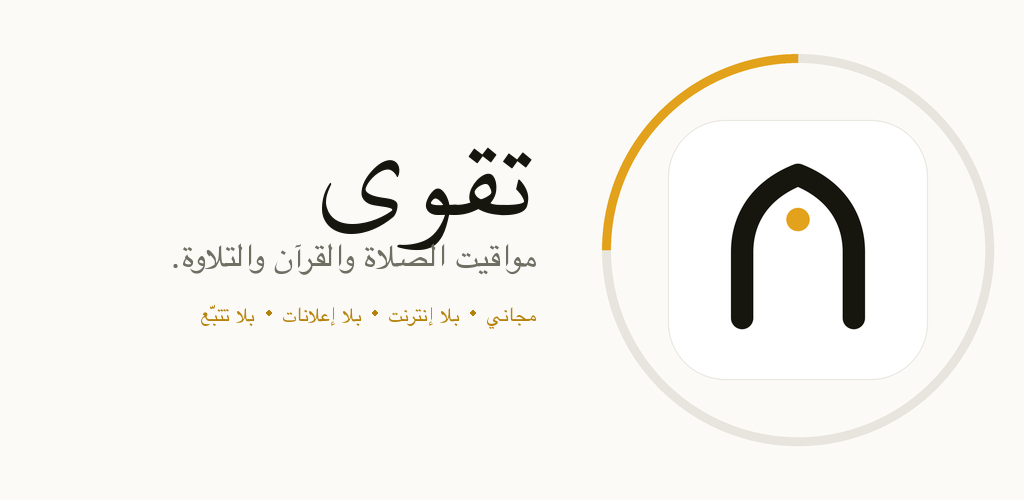
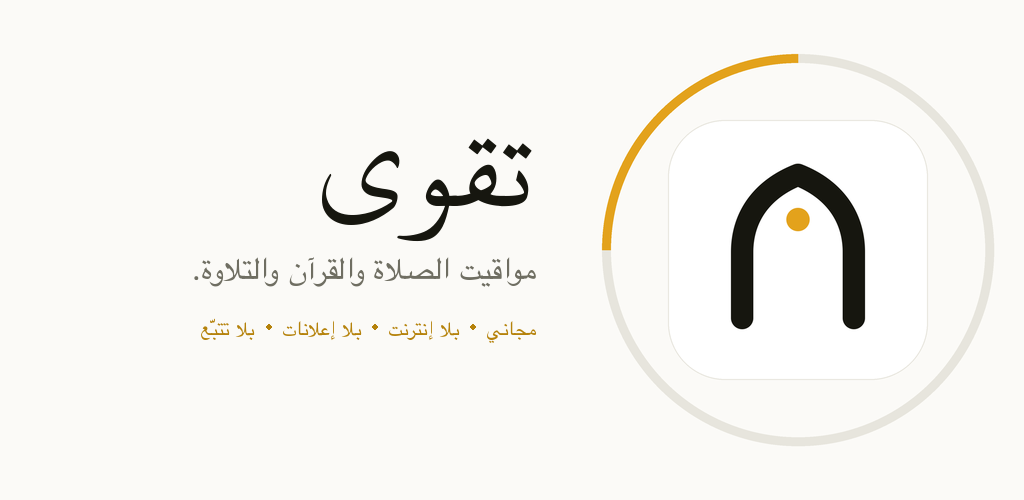
store: more air between the feature graphic's heading and its subheading

Changed region(s): [[0.1562, 0.27, 0.5312, 0.57], [0.2812, 0.6, 0.5312, 0.69], [0.1875, 0.63, 0.25, 0.69]]

diff --git a/tools/feature-graphic.py b/tools/feature-graphic.py
@@ -87,14 +87,14 @@ def render(lang):
     d = ImageDraw.Draw(out)
     if rtl:
         x = W - 488
-        d.text((x, 215), "تقوى", font=ImageFont.truetype(UTHMANIC, 132), fill=INK, anchor="rs", direction="rtl")
-        d.text((x, 268), "مواقيت الصلاة والقرآن والتلاوة.", font=ImageFont.truetype(ARABIC_UI, 34), fill=SECONDARY, anchor="rs", direction="rtl")
-        dotted_rtl(d, x, 322, ["مجاني", "بلا إنترنت", "بلا إعلانات", "بلا تتبّع"], ImageFont.truetype(ARABIC_UI, 21), AMBER)
+        d.text((x, 206), "تقوى", font=ImageFont.truetype(UTHMANIC, 132), fill=INK, anchor="rs", direction="rtl")
+        d.text((x, 280), "مواقيت الصلاة والقرآن والتلاوة.", font=ImageFont.truetype(ARABIC_UI, 32), fill=SECONDARY, anchor="rs", direction="rtl")
+        dotted_rtl(d, x, 336, ["مجاني", "بلا إنترنت", "بلا إعلانات", "بلا تتبّع"], ImageFont.truetype(ARABIC_UI, 21), AMBER)
     else:
         x = 488
-        d.text((x - 6, 205), "Taqwa", font=ImageFont.truetype(MANROPE_XB, 124), fill=INK, anchor="ls")
-        d.text((x, 262), "Prayer times, Quran and recitation.", font=ImageFont.truetype(MANROPE_R, 34), fill=SECONDARY, anchor="ls")
-        spaced(d, (x + 1, 322), "FREE · OFFLINE · NO ADS · NO TRACKING", ImageFont.truetype(MANROPE_SB, 20), AMBER, 3)
+        d.text((x - 6, 196), "Taqwa", font=ImageFont.truetype(MANROPE_XB, 124), fill=INK, anchor="ls")
+        d.text((x, 274), "Prayer times, Quran and recitation.", font=ImageFont.truetype(MANROPE_R, 32), fill=SECONDARY, anchor="ls")
+        spaced(d, (x + 1, 334), "FREE · OFFLINE · NO ADS · NO TRACKING", ImageFont.truetype(MANROPE_SB, 20), AMBER, 3)
     os.makedirs(OUT, exist_ok=True)
     path = os.path.join(OUT, f"feature-graphic-{lang}.png")
     out.convert("RGB").save(path, optimize=True)
